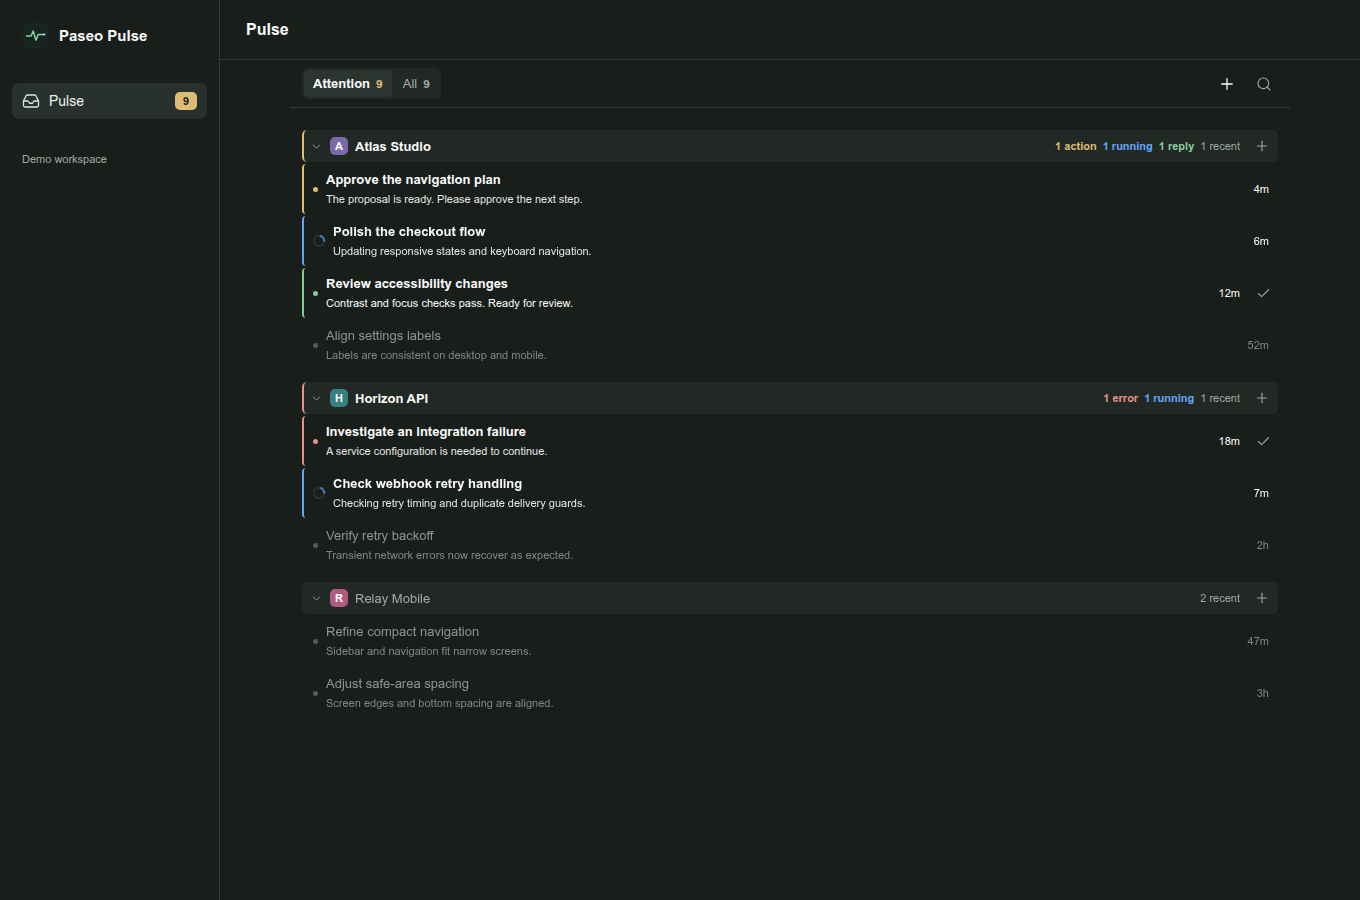
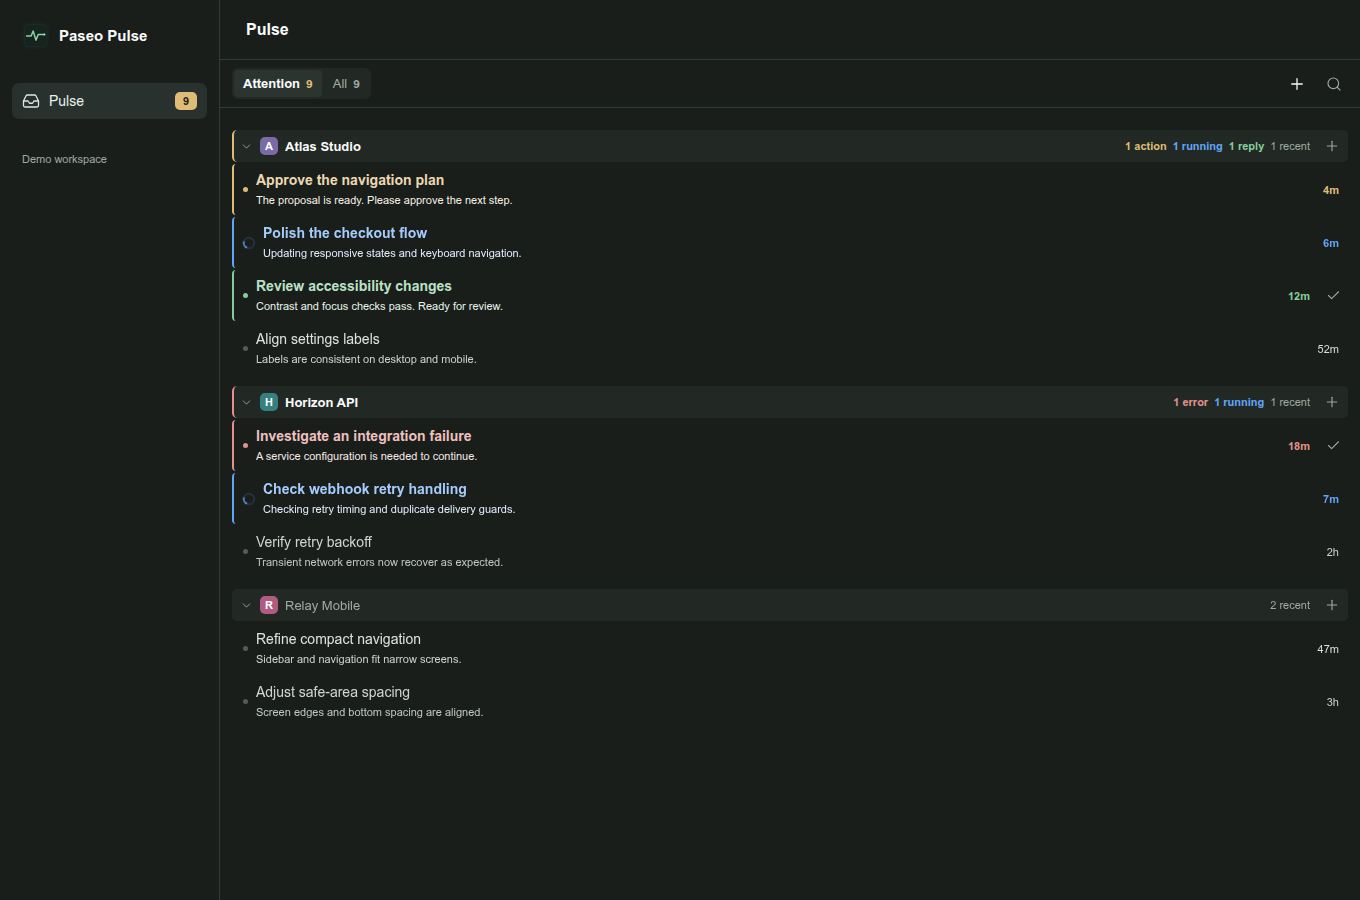
Prepare Pulse 0.13.6 catalog update and refresh screenshots

diff --git a/OVERVIEW.ru.md b/OVERVIEW.ru.md
@@ -1,5 +1,7 @@
 Paseo Pulse добавляет раздел «Пульс» с компактным списком сессий по проектам. Нажатие на строку сразу открывает исходную сессию в Paseo. Справа от «Пульс» в боковой панели показано количество сессий во «Внимании». Счётчик обновляется и при закрытом экране плагина, учитывает отметки ОК и истечение срока свежести; при нуле скрывается.
 
+Список занимает всю доступную ширину. Имена и закрепления из боковой панели Paseo обновляются автоматически. Во «Все» закреплённые сессии идут первыми внутри проекта и входят в первые шесть строк; порядок приоритетов во «Внимании» сохраняется. Контраст названия, превью и времени зависит от возраста сообщений: минуты, часы и дни различаются. Просмотренные сессии приглушены, но свежесть остаётся различимой. Работа, ответы, запросы действия и ошибки сохраняют цветовые акценты. Закрепление выделяет название, не меняя свежесть времени.
+
 Во «Внимании» показаны работающие и запускающиеся сессии, запросы разрешений, непросмотренные ошибки, новые ответы и переписки с сообщениями за последние 4 часа. Также остаются часто открываемые сессии: минимум три открытия за последние семь дней. Учёт начинается с установки этой версии и включает переходы в сессию из плагина; просмотры, сделанные напрямую в других разделах Paseo, SDK плагину не сообщает. Повторные нажатия в течение минуты считаются одним открытием. История открытий сохраняется на хосте и доступна с других устройств. Когда за последние семь дней остаётся меньше трёх открытий, такая сессия исчезает из «Внимания», если у неё нет другой причины там оставаться. Работающие сессии отмечены синим вращающимся индикатором, новые ответы зелёным, запросы действия жёлтым, ошибки красным. Счётчики в заголовках проектов помогают найти важные сессии. Кнопки ОК у сессии и проекта снимают отметку конкретного ответа или ошибки; новые ответы снова требуют внимания. Отметки сохраняются на хосте и синхронизируются между клиентами.
 
 Во вкладке «Все» видны по шесть последних сессий проекта, остальные доступны по кнопке «Ещё». У каждой сессии показаны название, короткий текст последнего ответа и время последнего сообщения. Сессии младше суток светлее, от суток и старше приглушённо-серые. Свежесть считается по сообщениям, а не по служебным обновлениям записи сессии или просмотрам. Отметка ОК снимает подсветку ответа, но свежая сессия остаётся во «Внимании» до истечения четырёх часов от последнего сообщения; часто открываемая — пока выполнено условие по открытиям. Пока время не подтверждено, свежесть не подсвечивается. Поиск работает по названию сессии, проекту, рабочей области, провайдеру и пути.

diff --git a/README.md b/README.md
@@ -8,16 +8,16 @@ A project-grouped attention inbox for your Paseo sessions. Find the agents that 
 
 Requires **Paseo 0.15.0+**, **Node.js 24+**, and plugins enabled on the target daemon.
 
-From the public Git repository:
+From the Paseo plugin catalog:
+
+```sh
+paseo plugin add js2me/pulse
+```
+
+Or directly from Git:
 
 ```sh
 paseo plugin add git:js2me/paseo-pulse
-```
-
-Or from npm:
-
-```sh
-paseo plugin add npm:paseo-pulse
 ```
 
 For a local checkout:
@@ -26,8 +26,6 @@ For a local checkout:
 npm ci --ignore-scripts
 paseo plugin install "$PWD"
 ```
-
-The Git/npm commands become available when those sources are published. Registry submission is prepared separately; there is no approved catalog ID yet.
 
 Open **Pulse** in the sidebar or **Open Pulse** in the Command Center. The native composer also has an **Open in Pulse** shortcut back to this list.
 
@@ -39,7 +37,7 @@ Open **Pulse** in the sidebar or **Open Pulse** in the Command Center. The nativ
 
 Read sessions are gray. Running work stays blue, new replies green, permission requests yellow and errors red. Marking a reply **OK** clears that exact reply's attention marker; a later reply is highlighted again. The sidebar badge uses the same rules as the page.
 
-**All** starts with six recent sessions per project. **More** reveals the rest. Search covers projects, workspaces, titles, providers and paths. The project **+** creates and opens an unnamed session immediately, reusing the model, mode, thinking level and feature settings of the last session used in that project. The global **+** uses the last session overall and its folder. Recency follows user prompts and session creation, not background status changes; search and attention filters do not affect the choice. Settings are refreshed before creation. If a project has no prior session, the most recent global session supplies the settings. With no history, an available host profile or provider default is used. No selection dialog or title is required.
+**All** starts with six sessions per project, with native sidebar pins first and the rest ordered by message recency. Pins do not change Attention priorities. Native sidebar renames and pin changes synchronize live. The list fills the available width; title, preview and time contrast distinguish minutes, hours and days, including for read sessions. **More** reveals the rest. Search covers projects, workspaces, titles, providers and paths. The project **+** creates and opens an unnamed session immediately, reusing the model, mode, thinking level and feature settings of the last session used in that project. The global **+** uses the last session overall and its folder. Recency follows user prompts and session creation, not background status changes; search and attention filters do not affect the choice. Settings are refreshed before creation. If a project has no prior session, the most recent global session supplies the settings. With no history, an available host profile or provider default is used. No selection dialog or title is required.
 
 <details>
 <summary>Compact view</summary>

diff --git a/OVERVIEW.fr.md b/OVERVIEW.fr.md
@@ -1,5 +1,7 @@
 Paseo Pulse ajoute une page Pulse avec une liste compacte regroupée par projet. Un clic ouvre directement la session dans Paseo. Le badge de la barre latérale indique le nombre de sessions dans « À suivre », même lorsque la page est fermée.
 
+La liste occupe toute la largeur disponible. Les noms personnalisés et les épingles de la barre latérale Paseo se synchronisent en direct. Dans Toutes, les sessions épinglées apparaissent en premier dans chaque projet et comptent parmi les six lignes visibles ; À suivre conserve son ordre de priorité. Le contraste du titre, de l’aperçu et de l’heure varie selon l’âge des messages, en minutes, heures ou jours. Les sessions lues restent atténuées tout en gardant ces différences. Les états actifs conservent leurs accents colorés ; une épingle souligne le nom sans rajeunir l’heure du dernier message.
+
 « À suivre » comprend les sessions en cours, les demandes d’autorisation, les erreurs et réponses non lues, ainsi que les conversations dont le dernier message date de moins de quatre heures. Les sessions ouvertes depuis le plugin au moins trois fois en sept jours restent également affichées. Les clics répétés en moins d’une minute ne comptent qu’une fois. L’historique des ouvertures est conservé sur l’hôte et partagé entre les appareils ; les consultations ailleurs dans Paseo ne sont pas accessibles au SDK.
 
 Les sessions en cours sont bleues, les nouvelles réponses vertes, les actions jaunes et les erreurs rouges. Les sessions lues sont grisées. Les boutons OK marquent la réponse ou l’erreur précise comme lue. Une nouvelle réponse rétablit la mise en évidence. Les marques sont synchronisées entre les clients.

diff --git a/OVERVIEW.md b/OVERVIEW.md
@@ -1,5 +1,7 @@
 Paseo Pulse adds a Pulse page with a compact project-grouped list. Select a session to open it directly in Paseo. The sidebar badge shows the number of sessions in Attention and updates while the page is closed.
 
+The list uses the full available width. Custom names and pins from the native Paseo sidebar update live. In All, pinned sessions appear first within each project and count toward the six visible rows; Attention keeps its existing priority order. Title, preview and time contrast reflect message age, with separate levels for minutes, hours and days. Read sessions remain subdued while retaining these age differences. Active states keep their blue, green, yellow or red accents; pins emphasize names without making old message timestamps look fresh.
+
 Attention includes running or starting sessions, permission requests, unread errors and replies, and conversations with messages from the last four hours. Sessions opened from this plugin at least three times in seven days also remain in Attention. Rapid repeat clicks within a minute count as one opening. Visit history is stored on the host and shared across connected devices. The SDK does not expose views made elsewhere in Paseo.
 
 Running sessions use a blue spinner; unread replies are green, actions yellow and errors red. Read sessions and replies marked OK are muted gray. OK clears the specific reply or error, while recent or frequently opened sessions remain listed. New replies regain their attention indicators. Marks are stored on the host and synchronized between clients.

diff --git a/OVERVIEW.zh-TW.md b/OVERVIEW.zh-TW.md
@@ -1,5 +1,7 @@
 Paseo Pulse 新增依專案分組的精簡「Pulse」頁面。點選工作階段即可直接在 Paseo 中開啟。側邊欄徽章顯示「需關注」中的工作階段數量，即使頁面關閉也會更新。
 
+清單使用所有可用寬度。Paseo 側邊欄的自訂名稱與釘選會即時同步。在「全部」中，釘選工作階段會排在各專案最上方，並計入前六列；「需關注」維持原有優先順序。標題、預覽與時間的對比會依訊息的新舊程度調整，區分分鐘、小時與天數。已讀項目較柔和，但仍能辨別新舊。執行、回覆、權限請求與錯誤保留各自的色彩；釘選只強調名稱，不會使舊訊息的時間看起來較新。
+
 「需關注」包含執行中或啟動中的工作階段、權限請求、未讀錯誤與回覆，以及最近四小時內有訊息的對話。七天內從此外掛開啟至少三次的工作階段也會保留。一分鐘內的重複點選只計算一次。開啟記錄儲存在主機上，並在連線的裝置間共用。SDK 無法取得在 Paseo 其他位置閱讀對話的記錄。
 
 執行中的工作階段以藍色旋轉圖示表示，新回覆為綠色、待處理事項為黃色、錯誤為紅色。已讀工作階段與標示完成的回覆會淡化為灰色。標示完成只套用於該則回覆或錯誤；新的回覆會重新突出顯示。標記會在用戶端之間同步。
